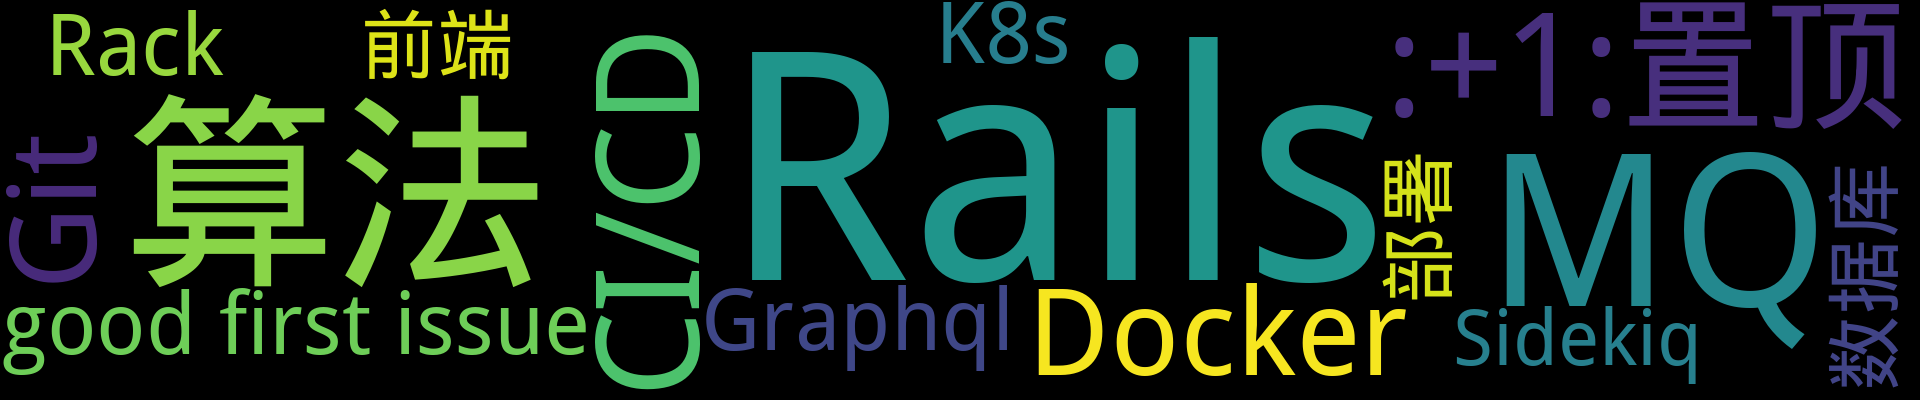
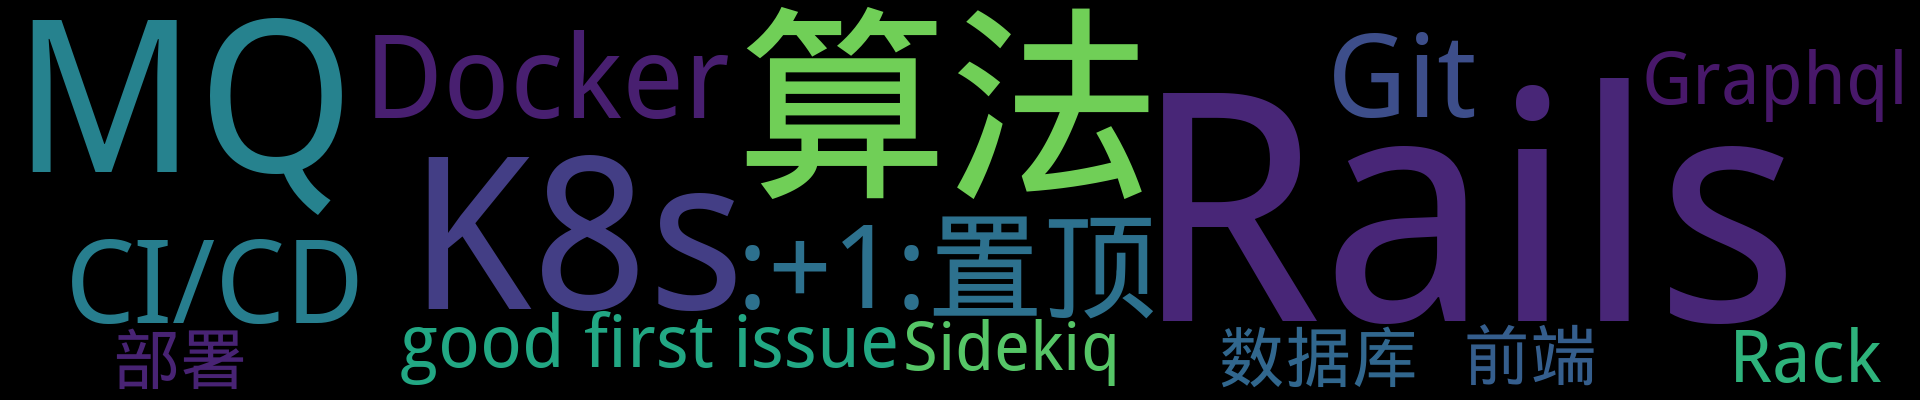
Update from Github Action

diff --git a/README.md b/README.md
@@ -3,7 +3,7 @@
 <p align='center'>
     <img src="https://badgen.net/badge/labels/20"/>
     <img src="https://badgen.net/github/issues/iamtomas/ghiblog"/>
-    <img src="https://badgen.net/badge/last-commit/2022-07-26 01:54:12"/>
+    <img src="https://badgen.net/badge/last-commit/2023-01-06 09:20:34"/>
     <img src="https://badgen.net/github/forks/iamtomas/ghiblog"/>
     <img src="https://badgen.net/github/stars/iamtomas/ghiblog"/>
     <img src="https://badgen.net/github/watchers/iamtomas/ghiblog"/>
@@ -20,6 +20,20 @@
 ## 置顶 :thumbsup: 
 - [基于 Github Action 自动生成并更新 GitHub Issue 博客的 ReadMe](https://github.com/iamtomas/note/issues/1)  <sup>0 :speech_balloon:</sup>  	 
 ## 最新 :new: 
+
+#### [K8s是如何工作的？](https://github.com/iamtomas/note/issues/49) <sup>0 :speech_balloon:</sup> 	 2023-01-06 09:20:02
+
+:label: : [K8s](https://github.com/iamtomas/ghiblog/labels/K8s)
+
+目的：K8s如何对Pod进行编排
+
+架构图：
+<img width="778" alt="image" src="https://user-images.githubusercontent.com/83901620/210953162-241845a2-9b93-4b93-a374-df933
+
+[更多>>>](https://github.com/iamtomas/note/issues/49)
+
+---
+
 
 #### [使用 SQL 参数对 ActiveRecord::Relation 进行排序返回  unsafe_raw SQL 警告](https://github.com/iamtomas/note/issues/48) <sup>0 :speech_balloon:</sup> 	 2022-07-26 01:53:47
 
@@ -67,20 +81,6 @@ https://gist.github.com/huacnlee/cd47d5550c47bc1cc46b91e679f014da
 参考：https://stackoverflow.com/questions/57290
 
 [更多>>>](https://github.com/iamtomas/note/issues/44)
-
----
-
-
-#### [搭建 Rspec 测试环境](https://github.com/iamtomas/note/issues/43) <sup>0 :speech_balloon:</sup> 	 2022-04-13 02:04:54
-
-:label: : [Rails](https://github.com/iamtomas/ghiblog/labels/Rails)
-
-> 为了方便 TDD 驱动而搭建的测试环境，它不仅可以执行完 rspec 后清理数据库，还能在执行 rspec 时自动加载 seed
-
-- 安装 [rspec-rails](https://github.com/rspec/rspec-rails/)
-- 安装 [factory_bot_rai
-
-[更多>>>](https://github.com/iamtomas/note/issues/43)
 
 ---
 
@@ -157,8 +157,9 @@ https://gist.github.com/huacnlee/cd47d5550c47bc1cc46b91e679f014da
 </details>
 
 <details>
-<summary>K8s	<sup>1:newspaper:</sup></summary>
+<summary>K8s	<sup>2:newspaper:</sup></summary>
 
+- [K8s是如何工作的？](https://github.com/iamtomas/note/issues/49)  <sup>0 :speech_balloon:</sup>  	 
 - [K8s + Helm](https://github.com/iamtomas/note/issues/36)  <sup>0 :speech_balloon:</sup>  	 
 
 
